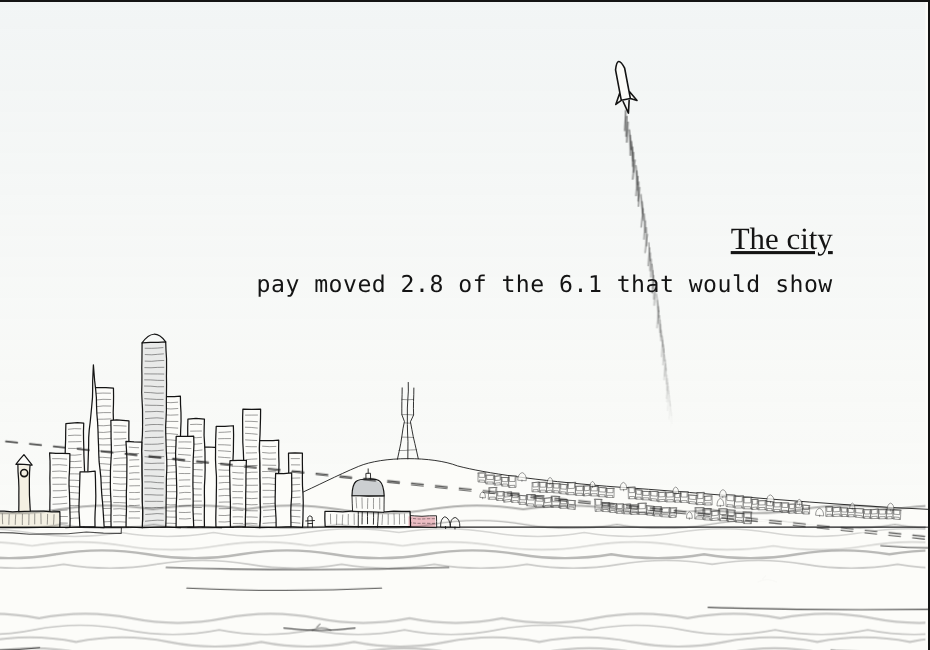
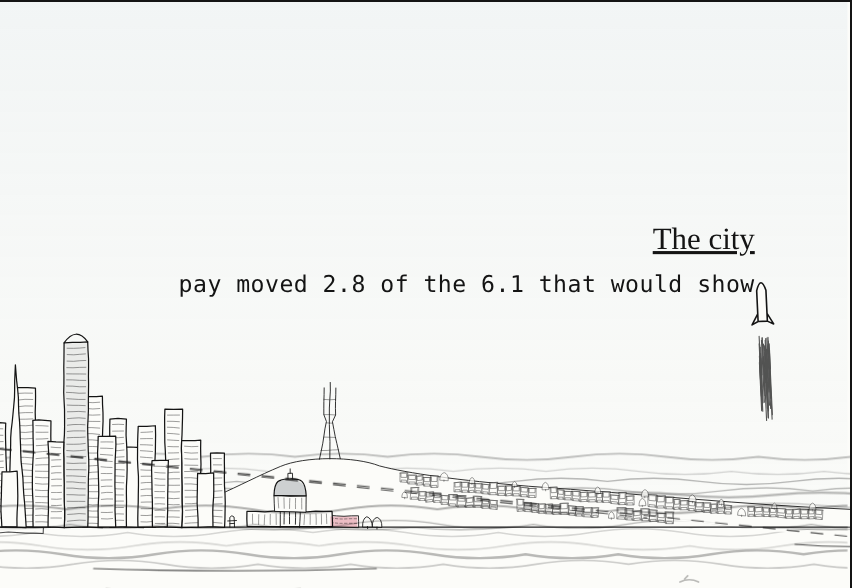
Front page: the rocket's trail as it was, rising from behind the land and never from the water; one whale at a time; fog behind the land, in front of it, and in front of what is near; boats at the point too, each breaking the water with a bow wave and a wake; plain containers; the city ferry in both

Changed region(s): [[0.0, 0.5204, 1.0, 1.0], [0.2136, 0.0918, 0.9155, 0.7041]]

diff --git a/docs/mockup/index.html b/docs/mockup/index.html
@@ -116,6 +116,7 @@ header.top{display:flex;align-items:baseline;justify-content:space-between;gap:1
 .hot{cursor:pointer}
 .hot,.hot *{outline:none;pointer-events:auto}
 .hot .hit{fill:transparent;stroke:none}
+#fognear{pointer-events:none}.stage[data-view="valley"] #fognear,.stage[data-view="valley"] #fogfar{display:none}
 .tap{cursor:pointer;pointer-events:auto}.stage[data-view="valley"] .tap{display:none}
 .hot .cap{text-decoration:underline dotted;text-decoration-color:var(--ink-3);text-underline-offset:6px}
 .hot:hover .cap,.hot:focus-visible .cap{text-decoration:underline solid;text-decoration-color:var(--ink)}
@@ -202,7 +203,6 @@ header.top{display:flex;align-items:baseline;justify-content:space-between;gap:1
 .src b{color:var(--ink);font-weight:500}
 .coin .close{margin-top:12px;font-family:var(--mono);font-size:12px;background:transparent;border:1px solid var(--ink);color:var(--ink);padding:5px 12px;cursor:pointer}
 
-.stage.still *{animation-play-state:paused !important}
 @media (prefers-reduced-motion: reduce){.fogline,.cloud,.rain,.water,.crest,.crownblock,.bart{animation:none}.stage>svg,.zoom,.viewer,.beam,.mask-in{transition:none}}
 @media (max-width:820px){
   /* On a phone the drawing is a picture and the figures beneath it are the way in: the labels in the
@@ -241,12 +241,13 @@ header.top{display:flex;align-items:baseline;justify-content:space-between;gap:1
         <filter id="lamp" x="-400%" y="-400%" width="900%" height="900%"><feGaussianBlur in="SourceGraphic" stdDeviation="2.2" result="b"/><feMerge><feMergeNode in="b"/><feMergeNode in="b"/><feMergeNode in="SourceGraphic"/></feMerge></filter>
         <filter id="lampwide" x="-60%" y="-60%" width="220%" height="220%"><feGaussianBlur stdDeviation="3.5"/></filter>
         <linearGradient id="skygrad" x1="0" y1="0" x2="0" y2="1"><stop id="sky-top" offset="0" stop-color="#BFD3E6" stop-opacity="0"/><stop id="sky-low" offset="1" stop-color="#F2B48C" stop-opacity="0"/></linearGradient>
+        <clipPath id="above-horizon"><rect x="0" y="-400" width="1600" height="740"/></clipPath>
         <mask id="fogmask"><rect x="0" y="0" width="1600" height="700" fill="white"/><polygon id="cone" points="0,0" fill="black"/></mask>
         <mask id="binoc"><rect x="0" y="0" width="1600" height="700" fill="black"/><circle cx="700" cy="290" r="210" fill="white"/><circle cx="900" cy="290" r="210" fill="white"/></mask>
       </defs>
       <g class="zoom"><g id="skywashg"><rect class="skywash" x="0" y="0" width="1600" height="342" fill="url(#skygrad)"/></g></g>
       <g id="celes" class="scene sky thin"></g>
-      <g class="zoom"><g id="skyall"><g id="sky" class="scene sky thin"></g></g></g>
+      <g class="zoom"><g id="skyall"><g id="sky" class="scene sky thin"></g><g id="fogfar" class="fog scene"></g></g></g>
       <g id="lifeback" class="life scene"></g>
     </svg>
     <!-- ================= the one scene from the point, painted once; the colour lies over the ink ================= -->
@@ -285,6 +286,7 @@ header.top{display:flex;align-items:baseline;justify-content:space-between;gap:1
           <g class="detail"><text x="872" y="466">the pipeline · looking south, to the campuses</text></g>
         </g>
       </g></g>
+      <g id="fognear" class="fog scene"></g>
     </svg>
 
     <!-- ================= the valley, through the viewer ================= -->
@@ -319,7 +321,6 @@ header.top{display:flex;align-items:baseline;justify-content:space-between;gap:1
   <div class="ctl">
     <label title="the sky from the airport's latest observation"><input type="checkbox" id="tg-aw" checked> Artificial Weather</label>
     <label title="the fog, drawn"><input type="checkbox" id="tg-ak" checked> Artificial Karl</label>
-    <label title="stop everything that moves"><input type="checkbox" id="tg-still"> Still</label>
   </div>
   </div>
 
@@ -503,6 +504,8 @@ header.top{display:flex;align-items:baseline;justify-content:space-between;gap:1
   el("path", {d:"M 394 346 C 370 352, 340 356, 300 360", class:"hair"}, headland);
   el("path", {d:"M 20 318 C 100 300, 190 298, 280 312", class:"hair", "stroke-dasharray":"8 6"}, headland);
   fog(fogG, [[330, 5, 6],[400, 6, 7],[470, 5, 5]], 11);
+  fog($("#fogfar"), [[296, 4, 4],[318, 3, 4]], 23);                          // behind the land: it shows between and above the buildings
+  fog(el("g", {style:"opacity:.5"}, $("#fognear")), [[545, 4, 3],[625, 5, 3]], 31);   // in front of the lighthouse, the boats and the whale
 
   // the Presidio's low shore at the Gate's south end, running on to the city
   el("path", {d:"M 640 342 C 700 334, 780 330, 860 334 C 940 338, 1030 340, 1080 340 L 1080 344 L 640 344 Z", style:"fill:var(--paper)", class:"hair"}, far);
@@ -1073,6 +1076,14 @@ header.top{display:flex;align-items:baseline;justify-content:space-between;gap:1
   const life = $("#life");
   const reduced = matchMedia("(prefers-reduced-motion: reduce)").matches;
   function tween(ms, step, done){ const t0 = performance.now(); (function f(t){ const k = Math.min(1, (t - t0)/ms); step(k); if (k < 1) requestAnimationFrame(f); else if (done) done(); })(t0); }
+  // a bow wave and a trailing wake for a hull in its own coordinates: bow and stern x, and the waterline y
+  function wake(g, bow, stern, wl){
+    const p = el("path", {d:"", class:"hair"}, g); let last = 0;
+    return now => { if (now - last < 150) return; last = now; const r = Math.random;
+      let d = `M ${bow - 3} ${wl} q ${4 + r()*2} ${-2.5 - r()*1.5} ${8 + r()*3} ${.5 + r()} M ${bow - 5} ${wl + 2.5} q ${5 + r()*2} ${-1 - r()} ${10 + r()*3} ${1 + r()}`;
+      for (let i=0;i<5;i++){ const x = stern - 4 - i*(8 + r()*4), y = wl + (i % 2)*2.2 + r()*1.2; d += ` M ${x.toFixed(1)} ${y.toFixed(1)} q ${-3 - r()} ${(-1.8 - r()).toFixed(1)} ${(-6.5 - r()*2).toFixed(1)} 0`; }
+      d += ` M ${bow - 8} ${wl + .5} L ${stern + 4} ${wl + .5}`;                                   // the line where hull meets water, broken a little
+      p.setAttribute("d", d); }; }
   let taxiUntil = 0, bearUp = false, rocketUntil = 0, whaleUp = 0, lastPad = 0, ferryUntil = 0;        // one robotaxi on the road at a time; one bear
   const EVENTS = {
     gull(){ if (stage.classList.contains("night")) return; // one to three, each its own size, pace, bob and wingbeat
@@ -1135,51 +1146,42 @@ header.top{display:flex;align-items:baseline;justify-content:space-between;gap:1
       }, ()=>g.remove()); },
     rocket(){ const view = stage.dataset.view; if (view !== "home" && view !== "valley") return 0;
       if (performance.now() < rocketUntil) return 0;
-      // it rises from behind the land in the far layer, so the land hides the pad and the first seconds of the climb;
-      // slow off the pad, gathering speed, leaving a plume that spreads and thins; one in three loses its engine,
-      // coasts, hangs, wobbles, and falls forward into the bay, crossing into the near layer as it comes
+      // from behind the land, straight up, slow off the pad and gathering speed, its trail of exhaust behind it;
+      // one in three loses its engine: the trail goes, it rises a little further, hangs and wobbles, and falls into the bay
       const valley = view === "valley", far = $("#lifeback");
-      let x0; do { x0 = valley ? 830 + Math.random()*270 : 1350 + Math.random()*230; } while ((valley && Math.abs(x0 - 930) < 40) || Math.abs(x0 - lastPad) < 60);
+      let x0; do { x0 = valley ? 830 + Math.random()*270 : 1430 + Math.random()*150; } while ((valley && Math.abs(x0 - 930) < 40) || Math.abs(x0 - lastPad) < 40);
       lastPad = x0;
-      const y0 = valley ? 300 : 352, waterY = valley ? 430 : 372 + Math.random()*30;
-      const plume = el("path", {d:"", style:"fill:var(--ink);fill-opacity:.1;stroke:none"}, far), core = el("path", {d:"", class:"hair"}, far);
-      const g = el("g", {class:"thin"}, far);
+      const y0 = valley ? 300 : 342;                                                 // below the ridge; the land and the horizon hide it until it clears them
+      const holder = el("g", valley ? {} : {"clip-path":"url(#above-horizon)"}, far), g = el("g", {class:"thin"}, holder);
       el("path", {d:"M-3 0 L -3 -20 Q 0 -30 3 -20 L 3 0 Z M-3 -5 L -7 2 L -3 0 M 3 -5 L 7 2 L 3 0", style:"fill:var(--paper)"}, g);
-      const flame = el("path", {d:"M -2 1 L 0 9 L 2 1", class:"thin"}, g);
-      const fails = FORCE_FAIL || Math.random() < 1/3, lean = (valley ? (Math.random() < .5 ? 1 : -1) : 1)*(.35 + Math.random()*.55);
-      const cutoff = 3.8 + Math.random()*1.2;
-      let t = 0, x = x0, y = y0, vx = 0, vy = -8, ang = 0, spin = 0, phase = "burn", last = performance.now(), hangT = 0, splash = null;
-      const pts = [];                                                               // the plume: where the nozzle has been, and when
+      const plume = el("g", {class:"hair"}, g);
+      const puff = () => { if (plume.childElementCount < 40 && Math.random() < .6) el("path", {d:`M${((Math.random()-.5)*7).toFixed(1)} ${(4 + Math.random()*8).toFixed(1)} l 0 ${(6 + Math.random()*14).toFixed(1)}`}, plume); };
+      const lean = (valley ? (Math.random() < .5 ? 1 : -1) : 1)*(.3 + Math.random()*.5), pace = .9 + Math.random()*.2;
+      const fails = FORCE_FAIL || Math.random() < 1/3;
       rocketUntil = performance.now() + 60000;
-      const drawPlume = () => {
-        const now = t; while (pts.length && now - pts[0][2] > 7) pts.shift();
-        if (pts.length < 2){ plume.setAttribute("d", ""); core.setAttribute("d", ""); return; }
-        const L = [], R = []; let c = "";
-        pts.forEach(([px, py, pt], i) => { const age = now - pt, w = .8 + age*2.6 + Math.sin(i*1.7)*age*.5;
-          L.push(`${(px - w).toFixed(1)} ${py.toFixed(1)}`); R.unshift(`${(px + w).toFixed(1)} ${py.toFixed(1)}`); c += `${i ? "L" : "M"} ${px.toFixed(1)} ${py.toFixed(1)} `; });
-        plume.setAttribute("d", `M ${L.join(" L ")} L ${R.join(" L ")} Z`); core.setAttribute("d", c); };
-      const done = () => { g.remove(); const fade = setInterval(()=>{ t += .1; drawPlume(); if (pts.length < 2){ clearInterval(fade); plume.remove(); core.remove(); } }, 100); rocketUntil = performance.now() + 4000; };
-      (function step(now){
-        if (!g.isConnected) return;
-        const dt = Math.min(.034, (now - last)/1000); last = now; t += dt;
-        if (phase === "burn"){ vy = -(6 + 8*t); vx = -lean*.45*t*t; if (fails && t > cutoff) phase = "coast"; }
-        else if (phase === "coast"){ vy += 13*dt; vx *= (1 - .6*dt); if (vy >= 0){ phase = "hang"; hangT = 0; } }
-        else if (phase === "hang"){ hangT += dt; vy = 2*hangT; spin = Math.sin(hangT*9)*(8 + hangT*30); if (hangT > 1.4){ phase = "fall"; life.appendChild(g); } }
-        else if (phase === "fall"){ vy += 16*dt; vx = -lean*10; spin += 260*dt*lean; }
-        x += vx*dt; y += vy*dt;
-        if (phase === "burn" || phase === "coast") ang = Math.atan2(vx, -vy)*180/Math.PI;
-        g.setAttribute("transform", `translate(${x.toFixed(2)},${y.toFixed(2)}) rotate(${(ang + spin).toFixed(2)})`);
-        const burning = phase === "burn"; flame.style.opacity = burning ? (.6 + Math.random()*.4) : 0;
-        if (burning){ const r = ang*Math.PI/180; pts.push([x - Math.sin(r)*4, y + Math.cos(r)*4, t]); }
-        drawPlume();
-        if (phase === "fall" && y >= waterY){
-          g.remove(); splash = el("g", {class:"thin"}, life);
-          for (let i=0;i<7;i++){ const a = (-150 + i*20)*Math.PI/180; el("path", {d:`M${x} ${waterY} l ${Math.cos(a)*8} ${Math.sin(a)*8} l ${Math.cos(a)*10} ${Math.sin(a)*14}`}, splash); }
-          el("path", {d:`M${x-30} ${waterY+6} q 30 -5 60 0 M${x-48} ${waterY+14} q 48 -6 96 0`, class:"hair"}, splash);
-          splash.style.transition = "opacity 2.5s"; requestAnimationFrame(()=>requestAnimationFrame(()=>{ splash.style.opacity = 0; })); setTimeout(()=>splash.remove(), 2700); return done(); }
-        if (y < -120) return done();
-        requestAnimationFrame(step); })(last);
-      return fails ? 14000 : 16000; },
+      const end = () => { holder.remove(); rocketUntil = performance.now() + 4000; };
+      if (!fails){
+        tween(15000/pace, k=>{ const y = y0 - k*k*(y0 + 90), x = x0 - k*k*70*lean;
+          g.setAttribute("transform", `translate(${x.toFixed(2)},${y.toFixed(2)}) rotate(${(-k*9*lean).toFixed(2)})`);
+          puff(); plume.setAttribute("transform", `scale(1,${(1 + k*2.2).toFixed(2)})`); plume.style.opacity = 1 - k*.5; }, end);
+        return 16000; }
+      const lift = 190, coast = 28, top = y0 - lift - coast, waterY = valley ? 430 : 372 + Math.random()*30; let splash = null, fx = x0;
+      tween(13000/pace, k=>{
+        if (k < .36){ const t = k/.36; g.setAttribute("transform", `translate(${(x0 - t*t*18*lean).toFixed(2)},${(y0 - t*t*lift).toFixed(2)}) rotate(${(-t*5*lean).toFixed(2)})`);
+          puff(); plume.setAttribute("transform", `scale(1,${(1 + t*1.6).toFixed(2)})`); }
+        else if (k < .5){ const t = (k-.36)/.14; plume.style.opacity = Math.max(0, 1 - t*4);                                   // the engine cuts: the trail goes, it coasts up and slows
+          g.setAttribute("transform", `translate(${(x0 - 18*lean - t*4*lean).toFixed(2)},${(y0 - lift - (1-(1-t)*(1-t))*coast).toFixed(2)}) rotate(${(-5*lean - t*3*lean).toFixed(2)})`); }
+        else if (k < .6){ const t = (k-.5)/.1;                                                                                      // it hangs and wobbles
+          g.setAttribute("transform", `translate(${(x0 - 22*lean + Math.sin(t*28)*1.4).toFixed(2)},${(top + t*3).toFixed(2)}) rotate(${(-8*lean + Math.sin(t*24)*(6 + t*16)).toFixed(2)})`); }
+        else if (k < .88){ const t = (k-.6)/.28; if (holder.parentNode !== life){ holder.removeAttribute("clip-path"); life.appendChild(holder); }   // and falls forward, into the near water
+          fx = x0 - 22*lean + Math.sin(t*9)*16;
+          g.setAttribute("transform", `translate(${fx.toFixed(2)},${(top + 3 + t*t*(waterY - top - 3)).toFixed(2)}) rotate(${(-8*lean + t*t*400*lean + Math.sin(t*22)*22).toFixed(2)})`); }
+        else { if (!splash){ g.style.opacity = 0; splash = el("g", {class:"thin"}, holder);
+            for (let i=0;i<7;i++){ const a = (-150 + i*20)*Math.PI/180; el("path", {d:`M${fx} ${waterY} l ${Math.cos(a)*8} ${Math.sin(a)*8} l ${Math.cos(a)*10} ${Math.sin(a)*14}`}, splash); }
+            el("path", {d:`M${fx-30} ${waterY+6} q 30 -5 60 0 M${fx-48} ${waterY+14} q 48 -6 96 0`, class:"hair"}, splash); }
+          splash.style.opacity = 1 - (k-.88)/.12; }
+      }, end);
+      return 14000; },
     robotaxi(){ if (stage.dataset.view !== "city" || performance.now() < taxiUntil) return 0; taxiUntil = performance.now() + 21000;
       // the city's own units on screen, and the drawn hydrant's place on the shore; it comes in from the west along the front
       const k = ZOOM.city.s*CITY.k, [hx, hy] = toScreen("city", cityX(HYD), CITY.y);
@@ -1211,7 +1213,7 @@ header.top{display:flex;align-items:baseline;justify-content:space-between;gap:1
       return 7800; },
     gust(){ stage.classList.add("gust"); document.querySelectorAll(".gull").forEach(p=>{ p.style.transition = "transform .8s"; p.style.transform = "rotate(-22deg)"; });
       setTimeout(()=>{ stage.classList.remove("gust"); }, 5000); },
-    sail(){ if (stage.dataset.view !== "bridge") return 0;
+    sail(){ const view = stage.dataset.view; if (view !== "bridge" && view !== "home") return 0;
       const g = el("g", {class:"thin"}, life), boat = el("g", {}, g), P = "fill:var(--paper)";
       el("path", {d:"M -22 0 L 24 0 L 17 7 L -16 7 Z", style:P}, boat);
       el("path", {d:"M 0 0 L 0 -44", class:"thin"}, boat);
@@ -1219,12 +1221,11 @@ header.top{display:flex;align-items:baseline;justify-content:space-between;gap:1
       el("path", {d:"M -1.5 -38 L -1.5 -4 L -17 -4 Z", style:P}, boat);
       el("circle", {cx:0, cy:-45, r:1.3, class:"carlight lamp", style:"fill:#FFFFFF;stroke:none"}, boat);
       el("circle", {cx:-20, cy:2, r:1.3, class:"carlight lamp", style:"fill:#FF3B30;stroke:none"}, boat);
-      const y = 535 + Math.random()*45, dur = 60000 + Math.random()*20000, heel = 3 + Math.random()*4, sc = .55 + Math.random()*.15;
-      tween(dur, k=>{ g.setAttribute("transform", `translate(${-60 + k*1760},${y + Math.sin(k*34)*1.6}) scale(${sc}) rotate(${-heel + Math.sin(k*23)*1.5})`); }, ()=>g.remove()); },
+      const home = view === "home", y = home ? 362 + Math.random()*100 : 535 + Math.random()*45, dur = 60000 + Math.random()*20000, heel = 3 + Math.random()*4;
+      const sc = home ? .28 + (y - 362)/100*.22 : .55 + Math.random()*.15, wk = wake(boat, 24, -18, 6.5);
+      tween(dur, k=>{ g.setAttribute("transform", `translate(${-60 + k*1760},${y + Math.sin(k*34)*1.6}) scale(${sc}) rotate(${-heel + Math.sin(k*23)*1.5})`); wk(performance.now()); }, ()=>g.remove()); },
     whale(){ const view = stage.dataset.view; if ((view !== "bridge" && view !== "home") || whaleUp) return 0;
-      // one, or now and then a pair surfacing together
-      const pair = Math.random() < .35; let dur = EVENTS.fluke(null); if (pair){ const lead = WHALE_AT; setTimeout(()=>EVENTS.fluke(lead), 1100 + Math.random()*900); dur += 2000; }
-      return dur; },
+      return EVENTS.fluke(null); },
     fluke(near){ const view = stage.dataset.view; whaleUp++;
       // where: open water, clear of the headland, the lighthouse and the point; further off is smaller
       let x, y;
@@ -1260,12 +1261,12 @@ header.top{display:flex;align-items:baseline;justify-content:space-between;gap:1
         const rk = Math.max(0, (k - .9)/.1); ring.setAttribute("d", rk > 0 ? `M ${x - 30*sc*(1 + rk)} ${y + 2} q ${30*sc*(1 + rk)} ${-5*sc} ${60*sc*(1 + rk)} 0` : ""); ring.style.opacity = 1 - rk*.7;
       }, ()=>{ g.remove(); cp.remove(); whaleUp = Math.max(0, whaleUp - 1); });
       return dur; },
-    boat(){ if (stage.dataset.view !== "bridge") return 0; (Math.random() < .5 && !stage.classList.contains("night") ? EVENTS.sail : EVENTS.cargo)(); return 9000; },
+    boat(){ const view = stage.dataset.view; if (view !== "bridge" && view !== "home") return 0; (Math.random() < .5 && !stage.classList.contains("night") ? EVENTS.sail : EVENTS.cargo)(); return 9000; },
     bart(){ if (stage.dataset.view !== "valley") return 0;
       const t = $("#bart"), dur = 10500 + Math.random()*3000;
       tween(dur, k=>{ t.setAttribute("transform", `translate(${(300 + k*540).toFixed(1)},0)`); }, ()=>t.setAttribute("transform", "translate(-400,0)"));
       return dur; },
-    cargo(){ if (stage.dataset.view !== "bridge") return 0;
+    cargo(){ const view = stage.dataset.view; if (view !== "bridge" && view !== "home") return 0;
       // a container ship, long and low, stacked with boxes, the house and funnel aft
       const g = el("g", {class:"thin"}, life), P = "fill:var(--paper)";
       el("path", {d:"M -62 0 L 60 0 L 70 -6 L 70 2 L 60 11 L -58 11 Z", style:P}, g);
@@ -1277,15 +1278,15 @@ header.top{display:flex;align-items:baseline;justify-content:space-between;gap:1
       for (let tier=0; tier<2; tier++) for (let i=0; i<9; i++){
         const bx = -34 + i*10, by = -5 - tier*5, box = el("g", {}, g);
         el("rect", {x:bx, y:by, width:9.4, height:4.6, class:"hair", style:P}, box);
-        el("rect", {x:bx, y:by, width:9.4, height:4.6, style:`fill:${tones[(i*3 + tier*2) % tones.length]};stroke:none;opacity:.35`}, box);
         if (tier === 1) boxes.push([box, bx, by]); }
       el("rect", {x:-49, y:-22, width:2.4, height:2, class:"carlight lamp", style:"fill:#F8DC8C;stroke:none"}, g);
       el("circle", {cx:-48, cy:-27, r:1.3, class:"carlight lamp", style:"fill:#FFFFFF;stroke:none"}, g);
       el("circle", {cx:69, cy:-6, r:1.3, class:"carlight lamp", style:"fill:#46C271;stroke:none"}, g);
-      const y = 550 + Math.random()*35, dur = 70000 + Math.random()*20000, sc = 1.25 + Math.random()*.25;
+      const home = view === "home", y = home ? 356 + Math.random()*110 : 550 + Math.random()*35, dur = 70000 + Math.random()*20000;
+      const sc = home ? .42 + (y - 356)/110*.4 : 1.25 + Math.random()*.25, wk = wake(g, 66, -58, 9);
       const drops = params.get("crate") === "1" || Math.random() < 1/3, at = params.get("crate") === "1" ? .28 : .35 + Math.random()*.3; let dropped = false;
       tween(dur, k=>{
-        const x = -120 + k*1880; g.setAttribute("transform", `translate(${x.toFixed(1)},${(y + Math.sin(k*18)*1.2).toFixed(1)}) scale(${sc})`);
+        const x = -120 + k*1880; g.setAttribute("transform", `translate(${x.toFixed(1)},${(y + Math.sin(k*18)*1.2).toFixed(1)}) scale(${sc})`); wk(performance.now());
         if (drops && !dropped && k > at){ dropped = true;
           // one box on the top tier slides over the side, drops, lands with a splash, bobs, and slips under
           const [box, bx, by] = boxes[2 + Math.floor(Math.random()*5)]; box.remove();
@@ -1300,8 +1301,8 @@ header.top{display:flex;align-items:baseline;justify-content:space-between;gap:1
           }, ()=>{ c.remove(); splash?.remove(); }); }
       }, ()=>g.remove()); },
     cityferry(){ if (stage.dataset.view !== "city" || performance.now() < ferryUntil) return 0;
-      // a ferry leaves the Ferry Building and comes across the bay toward the point, growing as it nears, its wake opening behind it
-      const [px, py] = toScreen("city", cityX(1240), CITY.y + 6), endX = 620 + Math.random()*260, dur = 26000 + Math.random()*6000;
+      // a ferry crosses between the Ferry Building and the point: out toward us, growing as it nears, or in toward the city, shrinking as it goes; its wake behind it
+      const [px, py] = toScreen("city", cityX(1240), CITY.y + 6), endX = 620 + Math.random()*260, dur = 26000 + Math.random()*6000, outbound = Math.random() < .5;
       ferryUntil = performance.now() + dur;
       const g = el("g", {class:"thin"}, life), ship = el("g", {}, g), wake = el("path", {d:"", class:"hair"}, g), P = "fill:var(--paper)";
       el("path", {d:"M -15 0 L 15 0 L 11 8 L -11 8 Z", style:P}, ship);
@@ -1311,10 +1312,17 @@ header.top{display:flex;align-items:baseline;justify-content:space-between;gap:1
       for (let i=0;i<5;i++) el("rect", {x:-10 + i*4.2, y:-6.5, width:2.6, height:2, class:"carlight", style:"fill:#F8DC8C;stroke:none"}, ship);
       el("circle", {cx:-6, cy:4, r:1.3, class:"carlight lamp", style:"fill:#FFF6D2;stroke:none"}, ship); el("circle", {cx:6, cy:4, r:1.3, class:"carlight lamp", style:"fill:#FFF6D2;stroke:none"}, ship);
       el("circle", {cx:0, cy:-15, r:1.1, class:"carlight lamp", style:"fill:#FFFFFF;stroke:none"}, ship);
+      let lastW = 0;
       tween(dur, k=>{
-        const near = Math.pow(k, 1.6), sc = .35 + near*2.6, x = px + (endX - px)*near, y = py + near*(760 - py);
+        const near = Math.pow(outbound ? k : 1 - k, 1.6), sc = .35 + near*2.6, x = px + (endX - px)*near, y = py + near*(760 - py);
         ship.setAttribute("transform", `translate(${x.toFixed(1)},${y.toFixed(1)}) scale(${sc.toFixed(3)})`);
-        const w = 11*sc, len = 20 + near*90; wake.setAttribute("d", `M ${x - w} ${y + 8*sc} L ${x - w - len*.5} ${y + 8*sc - len*.35} M ${x + w} ${y + 8*sc} L ${x + w + len*.5} ${y + 8*sc - len*.35}`);
+        const now = performance.now(); if (now - lastW < 150) return; lastW = now;
+        // the wake opens behind it: away from us when it comes toward us, toward us when it goes away; the bow wave at its front, breaking a little
+        const w = 11*sc, len = 20 + near*90, bw = outbound ? 1 : -1, r = Math.random, yb = y + 8*sc;
+        let d = `M ${x - w} ${yb} L ${x - w - len*.5} ${yb - bw*len*.35} M ${x + w} ${yb} L ${x + w + len*.5} ${yb - bw*len*.35}`;
+        for (let i=1;i<4;i++){ const f = i/4, xl = x - w - len*.5*f, xr = x + w + len*.5*f, yy = yb - bw*len*.35*f; d += ` M ${xl} ${yy} q ${-3*sc*r()} ${-1.5*sc} ${-5*sc} 0 M ${xr} ${yy} q ${3*sc*r()} ${-1.5*sc} ${5*sc} 0`; }
+        const yf = outbound ? yb + 1.5*sc : y - 1*sc; d += ` M ${x - w*.8} ${yf} q ${w*.4} ${(outbound ? 2.5 : -2.5)*sc*(.6 + r()*.6)} ${w*.8} 0 q ${w*.4} ${(outbound ? 2.5 : -2.5)*sc*(.6 + r()*.6)} ${w*.8} 0`;
+        wake.setAttribute("d", d);
       }, ()=>g.remove());
       return dur; },
   };
@@ -1326,7 +1334,7 @@ header.top{display:flex;align-items:baseline;justify-content:space-between;gap:1
      clocks alongside. Everything is cancelled and restarted when the view changes, and any error in one
      event is caught so the others carry on. */
   const PLAY = {
-    home:   { first:[["rocket", 9000]],                                   features:["whale", "rocket"],          gap:[12000, 22000], ambient:[["gull", [18000, 34000]], ["plane", [26000, 48000]]] },
+    home:   { first:[["rocket", 9000]],                                   features:["whale", "rocket", "boat"],  gap:[12000, 22000], ambient:[["gull", [18000, 34000]], ["plane", [26000, 48000]]] },
     city:   { first:[["robotaxi", 6000], ["cityferry", 24000]],          features:["robotaxi", "cityferry"],    gap:[14000, 24000], ambient:[["gull", [20000, 36000]], ["plane", [28000, 50000]]] },
     bridge: { first:[["boat", 2500], ["bear", 15000], ["whale", 30000]],  features:["bear", "whale", "boat"],     gap:[12000, 22000], ambient:[["gull", [18000, 34000]], ["plane", [30000, 55000]]] },
     valley: { first:[["bart", 1500], ["rocket", 13000]],                  features:["bart", "rocket", "bart"],   gap:[5000, 11000],  ambient:[] },
@@ -1336,7 +1344,7 @@ header.top{display:flex;align-items:baseline;justify-content:space-between;gap:1
   function cue(ms, fn){ cues.push(setTimeout(()=>{ let r = 0; try { r = fn(); } catch (e) { console.error(e); } return r; }, ms)); }
   function direct(view){
     cues.forEach(clearTimeout); cues = [];
-    if (reduced || stage.classList.contains("still") || params.get("event")) return;
+    if (reduced || params.get("event")) return;
     const plan = PLAY[view]; let bag = [], lastE = null;
     const next = () => { if (!bag.length){ bag = [...plan.features].sort(()=>Math.random() - .5); if (bag.length > 1 && bag[0] === lastE) bag.push(bag.shift()); } return (lastE = bag.shift()); };
     const play = name => { let ms = 0; try { ms = EVENTS[name]() || 0; } catch (e) { console.error(e); } return ms; };
@@ -1346,7 +1354,6 @@ header.top{display:flex;align-items:baseline;justify-content:space-between;gap:1
     for (const [e, range] of plan.ambient){ const again = d => cue(d, ()=>{ if (stage.dataset.view === view) play(e); again(rand(range)); }); again(rand(range)); }
   }
   // a still bay: every motion stops, for anyone who needs it to
-  $("#tg-still").addEventListener("change", e=>{ stage.classList.toggle("still", e.target.checked); if (e.target.checked){ cues.forEach(clearTimeout); cues = []; life.replaceChildren(); $("#lifeback").replaceChildren(); } else direct(stage.dataset.view); });
   if (params.get("event")){ setTimeout(()=>EVENTS[params.get("event")] && EVENTS[params.get("event")](), 2000); }
 
   /* ---------- the release strip ---------- */
